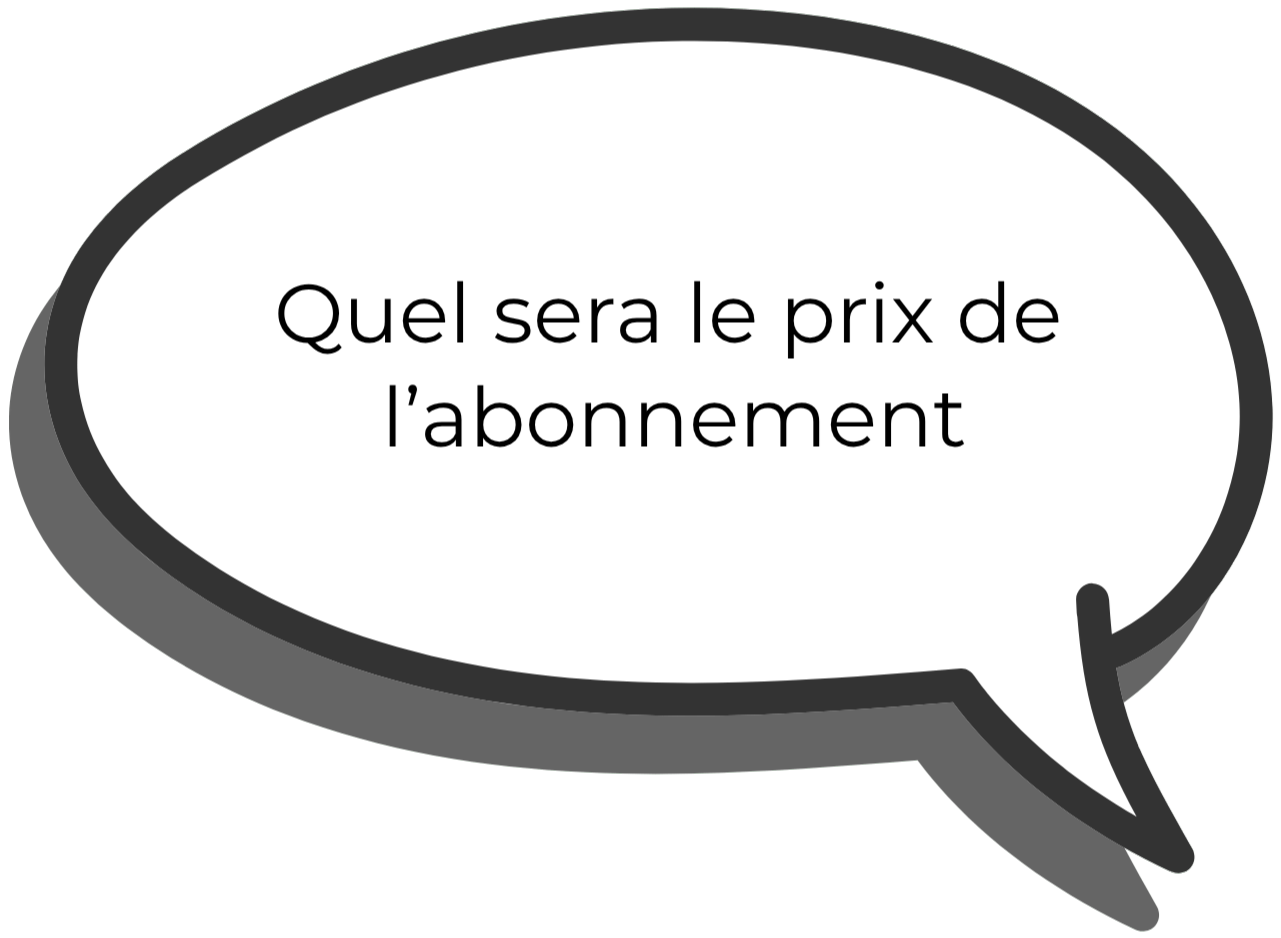
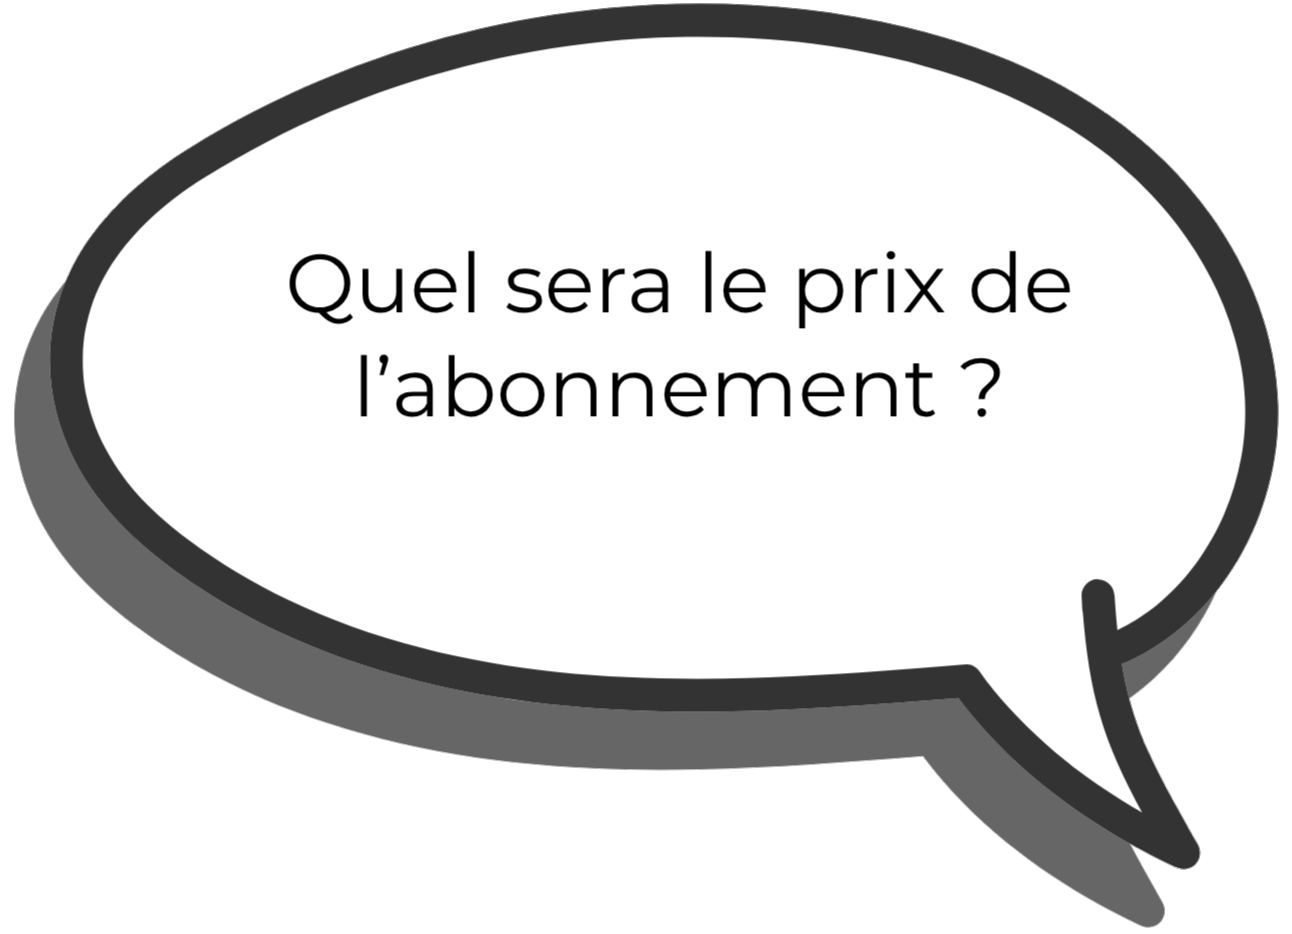
💄 Updated the subscription image and emphasized the text in the "Questions" section

diff --git a/apps/tadara-landing/src/sections/questions/Questions.jsx b/apps/tadara-landing/src/sections/questions/Questions.jsx
@@ -14,7 +14,7 @@ function Questions() {
             <div className="question-image">
               <img src="/images/questions/engagement-financier.png" alt="image engagement financier" width={500} height={360} />
             </div>
-            <h2>Non l'inscription est entièrement gratuite <br/>et sans engagement</h2>
+            <h2>Non l'inscription est entièrement gratuite <br/>et sans engagement.</h2>
         </QuestiosItemStyled>
 
         <QuestiosItemStyled>
